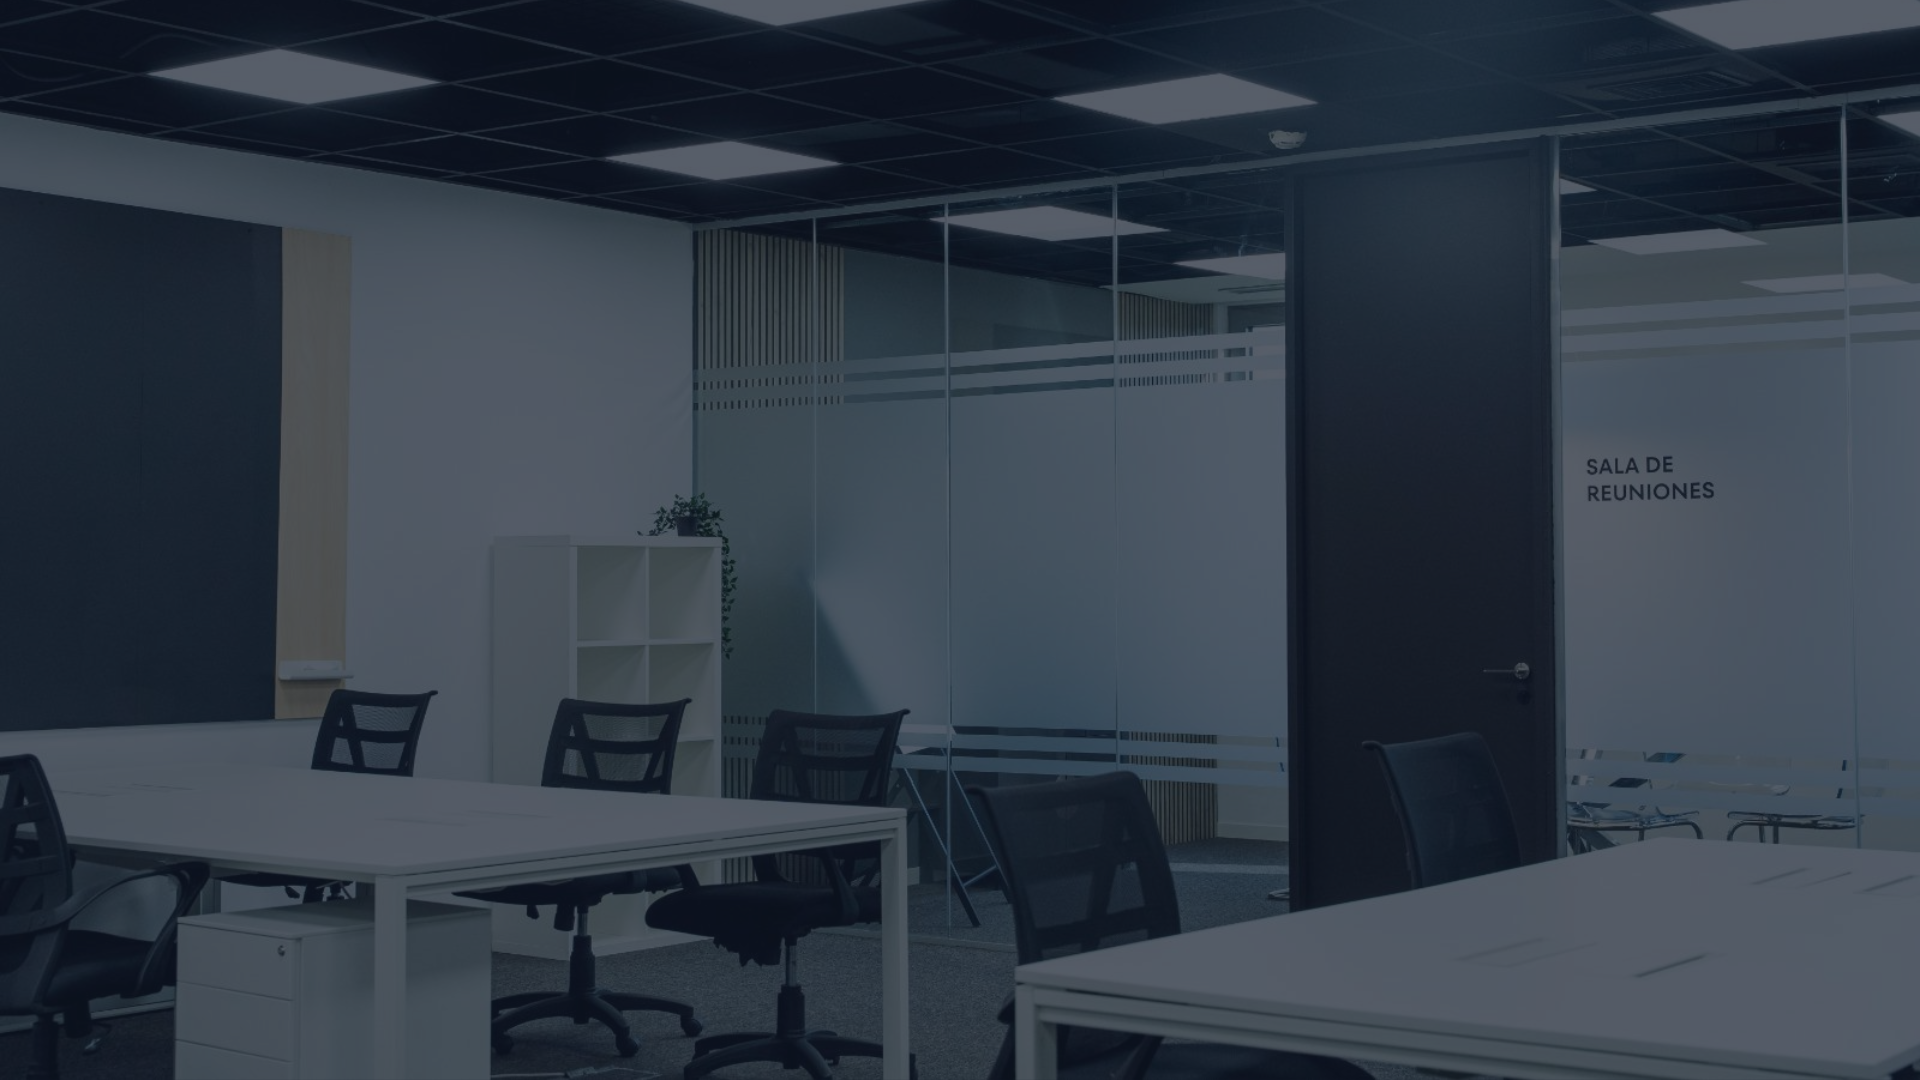
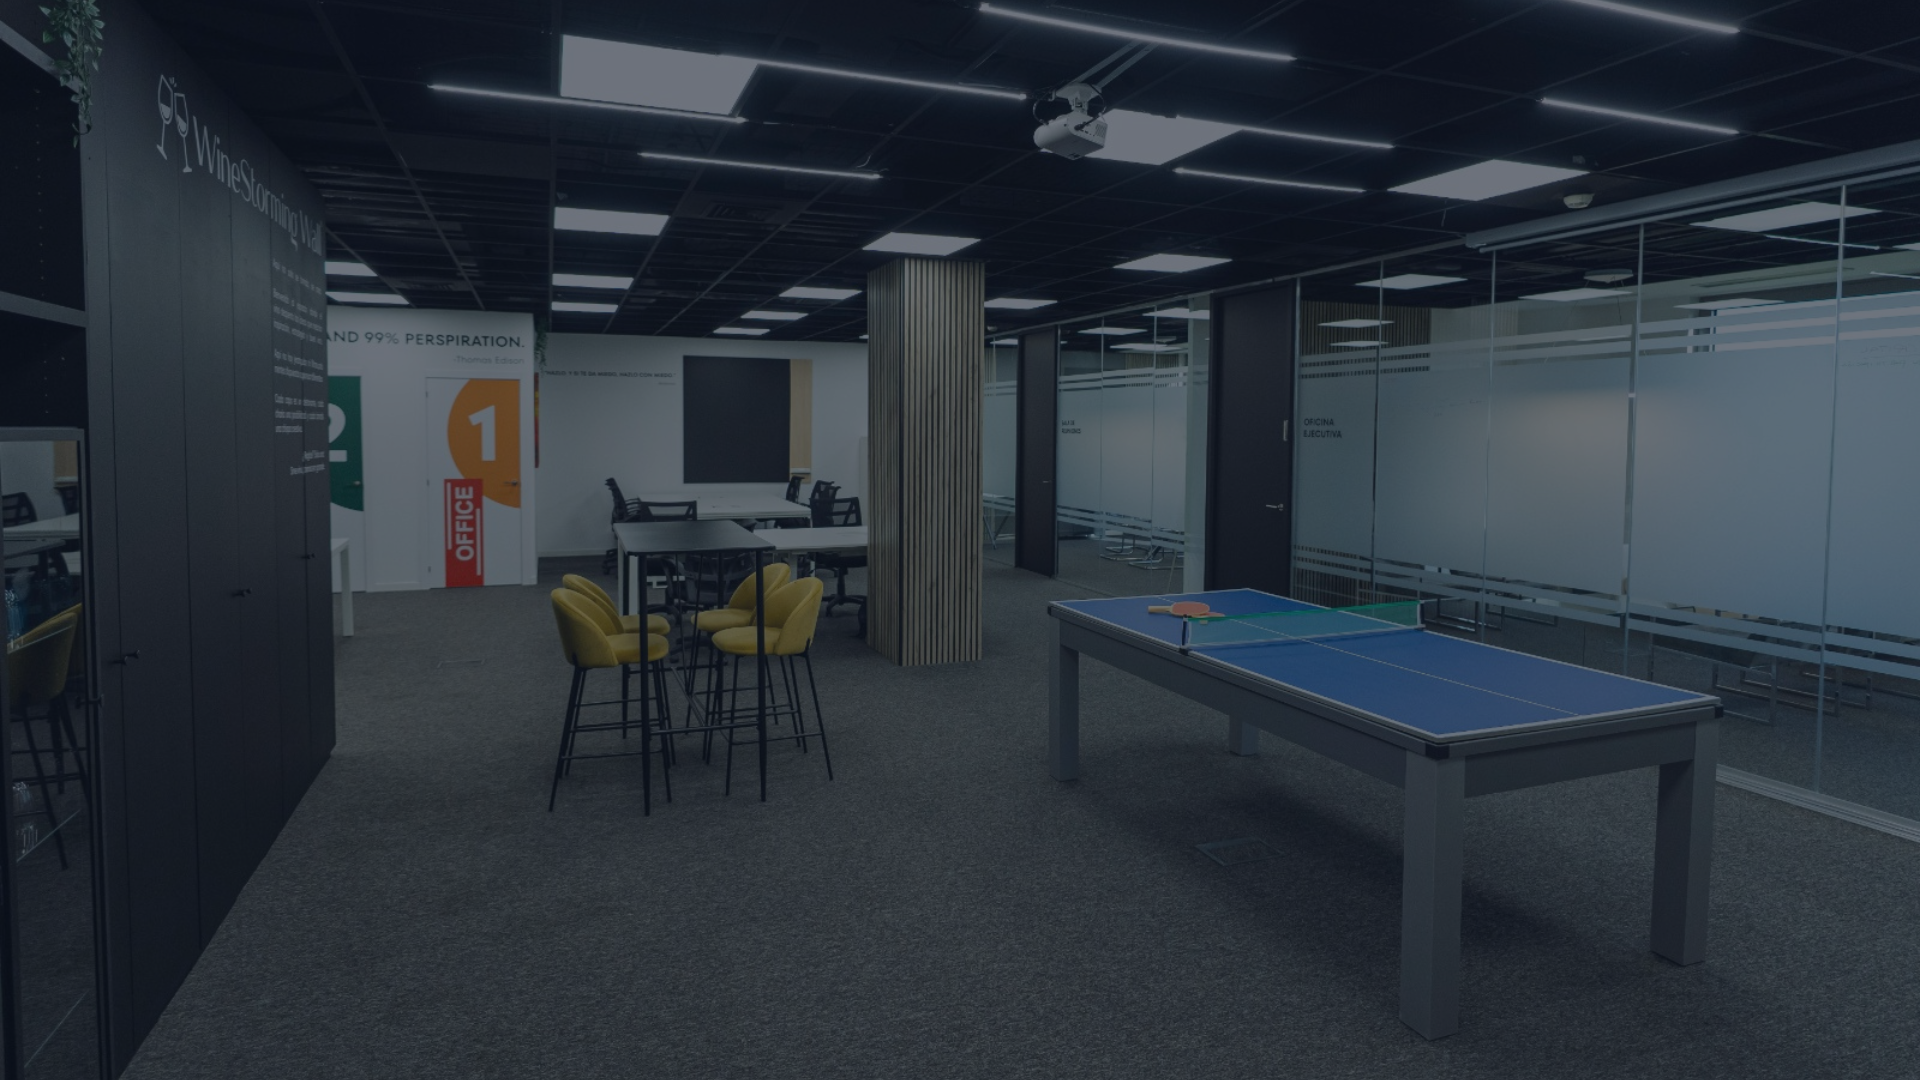
tweak(design): hero pingpong bg, hero limpio sin eyebrow, 3 lines uniform typography, rotating word brighter blue + glow, form inputs darker without white borders, hero CTA new copy, outline button visible, services cards more grayish + hover sin cortar, testimonios reducidos + card de google sobria

diff --git a/src/components/home/HeroForm.tsx b/src/components/home/HeroForm.tsx
@@ -13,6 +13,9 @@ interface Props {
   services: ServiceOption[];
 }
 
+const inputClass =
+  "mt-1.5 block w-full rounded-md bg-[#0a0c12] px-3 py-2.5 text-sm text-[--color-fg] placeholder:text-[--color-fg-dim] ring-1 ring-white/[0.06] transition-shadow focus:outline-none focus:ring-2 focus:ring-[--color-accent]";
+
 export function HeroForm({ services }: Props) {
   const [pending, startTransition] = useTransition();
   const [result, setResult] = useState<{ ok: boolean; error?: string } | null>(
@@ -38,12 +41,10 @@ export function HeroForm({ services }: Props) {
       }}
       className="relative overflow-hidden rounded-2xl bg-gradient-to-br from-[#1f2331] via-[#181b25] to-[#0f1218] p-7 shadow-[0_0_60px_-12px_rgba(24,123,239,0.45),0_25px_50px_-12px_rgba(0,0,0,0.5)] ring-1 ring-[--color-accent]/30"
     >
-      {/* Línea azul superior decorativa */}
       <span
         aria-hidden
         className="absolute inset-x-0 top-0 h-px bg-gradient-to-r from-transparent via-[--color-accent] to-transparent"
       />
-      {/* Glow interno sutil */}
       <span
         aria-hidden
         className="pointer-events-none absolute inset-0 rounded-2xl"
@@ -52,61 +53,66 @@ export function HeroForm({ services }: Props) {
             "radial-gradient(ellipse 60% 40% at 50% 0%, rgba(24,123,239,0.12), transparent 70%)",
         }}
       />
-      <p className="text-lg font-semibold text-[--color-fg]">
-        Déjanos ayudarte a crear algo increíble
-      </p>
-      <p className="mt-1 text-sm text-[--color-fg-muted]">
-        Te contestamos en menos de 24 horas.
-      </p>
 
-      <div className="mt-6 space-y-4">
-        <Field name="name" label="Nombre" required />
-        <Field name="email" label="Email" type="email" required />
-        <Field name="phone" label="Teléfono" type="tel" required />
-
-        <label className="block">
-          <span className="text-xs font-medium uppercase tracking-wider text-[--color-fg-muted]">
-            Servicio de interés <span className="text-[--color-accent]">*</span>
-          </span>
-          <select
-            name="service"
-            required
-            defaultValue=""
-            className="mt-1.5 block w-full rounded-md border border-[--color-border-strong] bg-[--color-bg] px-3 py-2.5 text-sm text-[--color-fg] focus:border-[--color-accent] focus:outline-none focus:ring-1 focus:ring-[--color-accent]"
-          >
-            <option value="" disabled>
-              Selecciona un servicio
-            </option>
-            {services.map((s) => (
-              <option key={s.slug} value={s.title}>
-                {s.title}
-              </option>
-            ))}
-          </select>
-        </label>
-      </div>
-
-      <input
-        type="text"
-        name="website"
-        tabIndex={-1}
-        autoComplete="off"
-        className="hidden"
-      />
-
-      <Button type="submit" disabled={pending} size="lg" className="mt-6 w-full">
-        {pending ? "Enviando…" : "Hablemos"}
-      </Button>
-
-      {result && (
-        <p
-          className={`mt-3 text-sm ${result.ok ? "text-emerald-400" : "text-red-400"}`}
-        >
-          {result.ok
-            ? "¡Enviado! Te respondemos en menos de 24h."
-            : result.error}
+      <div className="relative">
+        <p className="text-lg font-semibold text-[--color-fg]">
+          Déjanos ayudarte a crear algo increíble
         </p>
-      )}
+        <p className="mt-1 text-sm text-[--color-fg-muted]">
+          Te contestamos en menos de 24 horas.
+        </p>
+
+        <div className="mt-6 space-y-4">
+          <Field name="name" label="Nombre" required />
+          <Field name="email" label="Email" type="email" required />
+          <Field name="phone" label="Teléfono" type="tel" required />
+
+          <label className="block">
+            <span className="text-xs font-medium uppercase tracking-wider text-[--color-fg-muted]">
+              Servicio de interés <span className="text-[--color-accent]">*</span>
+            </span>
+            <select
+              name="service"
+              required
+              defaultValue=""
+              className={inputClass}
+            >
+              <option value="" disabled>
+                Selecciona un servicio
+              </option>
+              {services.map((s) => (
+                <option key={s.slug} value={s.title}>
+                  {s.title}
+                </option>
+              ))}
+            </select>
+          </label>
+        </div>
+
+        <input
+          type="text"
+          name="website"
+          tabIndex={-1}
+          autoComplete="off"
+          className="hidden"
+        />
+
+        <Button type="submit" disabled={pending} size="lg" className="mt-6 w-full">
+          {pending ? "Enviando…" : "¡Quiero hacer algo increíble!"}
+        </Button>
+
+        {result && (
+          <p
+            className={`mt-3 text-sm ${
+              result.ok ? "text-emerald-400" : "text-red-400"
+            }`}
+          >
+            {result.ok
+              ? "¡Enviado! Te respondemos en menos de 24h."
+              : result.error}
+          </p>
+        )}
+      </div>
     </form>
   );
 }
@@ -127,12 +133,7 @@ function Field({
       <span className="text-xs font-medium uppercase tracking-wider text-[--color-fg-muted]">
         {label} {required && <span className="text-[--color-accent]">*</span>}
       </span>
-      <input
-        name={name}
-        type={type}
-        required={required}
-        className="mt-1.5 block w-full rounded-md border border-[--color-border-strong] bg-[--color-bg] px-3 py-2.5 text-sm text-[--color-fg] placeholder:text-[--color-fg-dim] focus:border-[--color-accent] focus:outline-none focus:ring-1 focus:ring-[--color-accent]"
-      />
+      <input name={name} type={type} required={required} className={inputClass} />
     </label>
   );
 }

diff --git a/src/components/home/Testimonials.tsx b/src/components/home/Testimonials.tsx
@@ -79,25 +79,27 @@ export function Testimonials() {
           </ButtonLink>
         </div>
 
-        <div className="mt-16 grid gap-6 md:grid-cols-3">
-          {/* Rating summary card */}
-          <div className="relative overflow-hidden rounded-3xl bg-gradient-to-br from-[--color-accent] via-[#1a6fd9] to-[#0f4a9c] p-8 text-white">
-            <div
-              aria-hidden
-              className="pointer-events-none absolute inset-0 bg-noise opacity-[0.08] mix-blend-overlay"
-            />
-            <p className="relative text-7xl font-black leading-none">5.0</p>
-            <div className="relative mt-4">
-              <Stars count={5} size={20} />
+        <div className="mt-14 grid gap-6 md:grid-cols-3">
+          {/* Rating summary card — sobria, mismo lenguaje que el resto */}
+          <div className="flex flex-col rounded-3xl bg-[--color-bg-elevated] p-8 ring-1 ring-white/[0.05]">
+            <div className="flex items-baseline gap-2">
+              <p className="text-6xl font-black leading-none text-[--color-accent]">
+                5.0
+              </p>
+              <p className="text-sm font-medium text-[--color-fg-muted]">/ 5</p>
             </div>
-            <p className="relative mt-8 text-sm text-white/80">
-              30+ reviews de Google
+            <div className="mt-4">
+              <Stars count={5} size={18} />
+            </div>
+            <p className="mt-auto pt-8 text-sm text-[--color-fg-muted]">
+              <span className="font-semibold text-[--color-fg]">30+ reviews</span>{" "}
+              de Google.
             </p>
             <a
               href={GOOGLE_REVIEWS_URL}
               target="_blank"
               rel="noopener noreferrer"
-              className="relative mt-2 inline-flex items-center gap-1 text-sm font-semibold text-white hover:underline"
+              className="mt-3 inline-flex items-center gap-1 text-sm font-semibold text-[--color-accent] hover:text-[--color-accent-hover]"
             >
               Leer todas →
             </a>
@@ -105,21 +107,21 @@ export function Testimonials() {
 
           {/* Reviews carousel */}
           <div className="md:col-span-2">
-            <div className="relative h-full rounded-3xl border border-[--color-border] bg-[--color-bg-elevated]">
+            <div className="relative h-full rounded-3xl bg-[--color-bg-elevated] ring-1 ring-white/[0.05]">
               <div ref={emblaRef} className="h-full overflow-hidden rounded-3xl">
                 <div className="flex">
                   {TESTIMONIALS.map((t, i) => (
                     <div
                       key={i}
-                      className="min-w-0 flex-[0_0_100%] p-10 sm:p-12"
+                      className="min-w-0 flex-[0_0_100%] p-8 sm:p-10"
                     >
-                      <Stars count={t.rating} size={20} />
-                      <blockquote className="mt-6 text-xl leading-relaxed text-[--color-fg] md:text-2xl">
+                      <Stars count={t.rating} size={16} />
+                      <blockquote className="mt-5 text-base leading-relaxed text-[--color-fg] md:text-lg">
                         <span className="text-[--color-accent]">“</span>
                         {t.body}
                         <span className="text-[--color-accent]">”</span>
                       </blockquote>
-                      <p className="mt-8 text-base font-bold text-[--color-fg]">
+                      <p className="mt-6 text-sm font-bold text-[--color-fg]">
                         — {t.author}
                       </p>
                     </div>

diff --git a/src/components/home/Hero.tsx b/src/components/home/Hero.tsx
@@ -22,7 +22,7 @@ export function Hero() {
         className="-z-30 object-cover object-center"
       />
 
-      {/* Overlay translúcido: deja respirar la foto, pero asegura contraste detrás del texto */}
+      {/* Overlay translúcido para legibilidad */}
       <div
         aria-hidden
         className="absolute inset-0 -z-20"
@@ -39,10 +39,10 @@ export function Hero() {
         style={{ ["--sx" as string]: "20%", ["--sy" as string]: "30%" }}
       />
 
-      {/* Grid decorativo */}
+      {/* Grid sutil */}
       <div
         aria-hidden
-        className="pointer-events-none absolute inset-0 -z-10 bg-grid opacity-50 fade-edges-y"
+        className="pointer-events-none absolute inset-0 -z-10 bg-grid opacity-40 fade-edges-y"
       />
 
       {/* Noise grain */}
@@ -51,29 +51,17 @@ export function Hero() {
         className="pointer-events-none absolute inset-0 -z-10 bg-noise opacity-[0.06] mix-blend-overlay"
       />
 
-      <Container className="relative grid gap-14 py-28 md:py-36 lg:grid-cols-[1.3fr_1fr] lg:gap-20">
+      <Container className="relative grid gap-14 py-28 md:py-32 lg:grid-cols-[1.3fr_1fr] lg:gap-20">
         <div className="flex flex-col justify-center">
-          {/* Eyebrow con dot animado */}
-          <p className="flex items-center gap-3 text-xs font-semibold uppercase tracking-[0.25em] text-[--color-accent]">
-            <span className="relative inline-flex h-2 w-2">
-              <span className="absolute inline-flex h-full w-full rounded-full bg-[--color-accent] animate-ping-soft" />
-              <span className="relative inline-flex h-2 w-2 rounded-full bg-[--color-accent]" />
-            </span>
-            dinkbit · España
-          </p>
-
-          {/* Headline con jerarquía marcada: "Hacemos" pequeño, palabra rotante MASIVA, "increíbles" mediano */}
-          <h1 className="mt-8 font-bold leading-[0.95] tracking-tight text-[--color-fg]">
-            <span className="block text-2xl font-medium uppercase tracking-[0.2em] text-[--color-fg-muted] md:text-3xl">
+          {/* Headline tri-línea con misma tipografía. Rotating word es la única en azul. */}
+          <h1 className="font-black leading-[0.95] tracking-tight text-[--color-fg]">
+            <span className="block text-5xl md:text-6xl lg:text-7xl">
               Hacemos
             </span>
-            <span
-              className="mt-3 block font-black leading-[0.9]"
-              style={{ fontSize: "var(--text-display-xl)" }}
-            >
+            <span className="mt-1 block text-5xl md:text-6xl lg:text-7xl">
               <RotatingWord />
             </span>
-            <span className="mt-2 block text-4xl italic text-[--color-fg] md:text-6xl lg:text-7xl">
+            <span className="mt-1 block text-5xl md:text-6xl lg:text-7xl">
               increíbles.
             </span>
           </h1>

diff --git a/src/components/home/ServicesCarousel.tsx b/src/components/home/ServicesCarousel.tsx
@@ -90,29 +90,24 @@ export function ServicesCarousel({ services }: Props) {
         </div>
       </Container>
 
-      <div className="relative mt-10 overflow-hidden" ref={emblaRef}>
+      {/* py-4 da espacio para el hover lift sin que se corte el ring superior */}
+      <div className="relative mt-10 overflow-hidden py-4" ref={emblaRef}>
         <div className="flex touch-pan-y gap-5 pl-6 pr-[20vw] lg:pl-8">
           {services.map((s) => (
             <Link
               key={s.slug}
               href={`/servicios/${s.slug}`}
-              className="group relative flex w-[290px] shrink-0 flex-col rounded-3xl border border-[--color-border] bg-[--color-bg-elevated] p-7 transition-all hover:-translate-y-1 hover:border-[--color-accent] sm:w-[340px]"
+              className="group relative flex w-[280px] shrink-0 flex-col rounded-2xl bg-[#16181f] px-6 pb-6 pt-5 ring-1 ring-white/[0.05] transition-all duration-300 hover:-translate-y-1.5 hover:bg-[#1a1d27] hover:ring-[--color-accent]/40 hover:shadow-[0_20px_40px_-15px_rgba(24,123,239,0.4)] sm:w-[320px]"
             >
-              {/* Glow superior en hover */}
-              <span
-                aria-hidden
-                className="pointer-events-none absolute inset-x-0 top-0 h-px bg-gradient-to-r from-transparent via-[--color-accent] to-transparent opacity-0 transition-opacity group-hover:opacity-100"
-              />
-
               <div className="flex items-start justify-between">
                 <Image
                   src={`/img/icons/servicios/${s.slug}.png`}
                   alt=""
-                  width={48}
-                  height={48}
-                  className="h-12 w-12"
+                  width={44}
+                  height={44}
+                  className="h-11 w-11"
                 />
-                <span className="flex h-10 w-10 items-center justify-center rounded-full border border-[--color-border-strong] text-[--color-fg-muted] transition-all group-hover:rotate-[-8deg] group-hover:border-[--color-accent] group-hover:bg-[--color-accent] group-hover:text-white">
+                <span className="flex h-10 w-10 items-center justify-center rounded-full bg-[--color-bg-elevated] text-[--color-fg-muted] transition-all group-hover:rotate-[-8deg] group-hover:bg-[--color-accent] group-hover:text-white">
                   <svg width="14" height="14" viewBox="0 0 14 14" fill="none">
                     <path
                       d="M4 10L10 4M10 4H5M10 4V9"
@@ -124,10 +119,10 @@ export function ServicesCarousel({ services }: Props) {
                   </svg>
                 </span>
               </div>
-              <p className="mt-10 text-2xl font-bold leading-tight text-[--color-fg]">
+              <p className="mt-8 text-xl font-bold leading-tight text-[--color-fg]">
                 {s.title}
               </p>
-              <p className="mt-3 text-sm leading-relaxed text-[--color-fg-muted]">
+              <p className="mt-2 text-sm leading-relaxed text-[--color-fg-muted]">
                 {s.shortDescription}
               </p>
             </Link>

diff --git a/src/components/contacto/ContactForm.tsx b/src/components/contacto/ContactForm.tsx
@@ -23,7 +23,11 @@ export function ContactForm({ services }: Props) {
   }, []);
 
   return (
-    <div className="rounded-3xl border border-[--color-border] bg-[--color-bg-elevated] p-8 sm:p-10">
+    <div className="relative overflow-hidden rounded-3xl bg-gradient-to-br from-[#1f2331] via-[#181b25] to-[#0f1218] p-8 ring-1 ring-[--color-accent]/30 shadow-[0_0_60px_-12px_rgba(24,123,239,0.35)] sm:p-10">
+      <span
+        aria-hidden
+        className="absolute inset-x-0 top-0 h-px bg-gradient-to-r from-transparent via-[--color-accent] to-transparent"
+      />
       <form
         ref={formRef}
         action={(fd) => {
@@ -122,7 +126,7 @@ export function ContactForm({ services }: Props) {
 }
 
 const inputClass =
-  "mt-1.5 block w-full rounded-md border border-[--color-border-strong] bg-[--color-bg] px-3 py-2.5 text-sm text-[--color-fg] placeholder:text-[--color-fg-dim] focus:border-[--color-accent] focus:outline-none focus:ring-1 focus:ring-[--color-accent]";
+  "mt-1.5 block w-full rounded-md bg-[#0a0c12] px-3 py-2.5 text-sm text-[--color-fg] placeholder:text-[--color-fg-dim] ring-1 ring-white/[0.06] transition-shadow focus:outline-none focus:ring-2 focus:ring-[--color-accent]";
 
 function Field({
   name,

diff --git a/src/components/home/RotatingWord.tsx b/src/components/home/RotatingWord.tsx
@@ -19,10 +19,11 @@ export function RotatingWord() {
 
   return (
     <span
-      className="relative inline-block overflow-hidden align-baseline text-[--color-accent]"
+      className="relative inline-block overflow-hidden align-baseline"
       style={{
+        color: "#3a90f2",
         textShadow:
-          "0 0 32px rgba(24,123,239,0.45), 0 0 8px rgba(24,123,239,0.6)",
+          "0 0 24px rgba(58,144,242,0.55), 0 0 48px rgba(24,123,239,0.4)",
       }}
     >
       <AnimatePresence mode="wait" initial={false}>

diff --git a/src/components/home/AboutFeatures.tsx b/src/components/home/AboutFeatures.tsx
@@ -76,7 +76,7 @@ export function AboutFeatures() {
               <ButtonLink
                 href="/casos-de-exito"
                 size="lg"
-                variant="ghost"
+                variant="outline"
               >
                 Ver casos →
               </ButtonLink>

diff --git a/src/components/ui/Button.tsx b/src/components/ui/Button.tsx
@@ -19,7 +19,7 @@ const variants: Record<Variant, string> = {
   secondary: "bg-[--color-bg-elevated] text-[--color-fg] hover:bg-[--color-border-strong]",
   ghost: "text-[--color-accent] hover:bg-[--color-accent-soft]",
   outline:
-    "border border-[--color-border-strong] text-[--color-fg] hover:border-[--color-accent] hover:text-[--color-accent]",
+    "bg-[--color-bg-elevated] text-[--color-fg] ring-1 ring-[--color-accent]/30 hover:bg-[--color-accent-soft] hover:text-[--color-accent] hover:ring-[--color-accent]",
 };
 const sizes: Record<Size, string> = {
   sm: "h-9 px-3 text-sm",